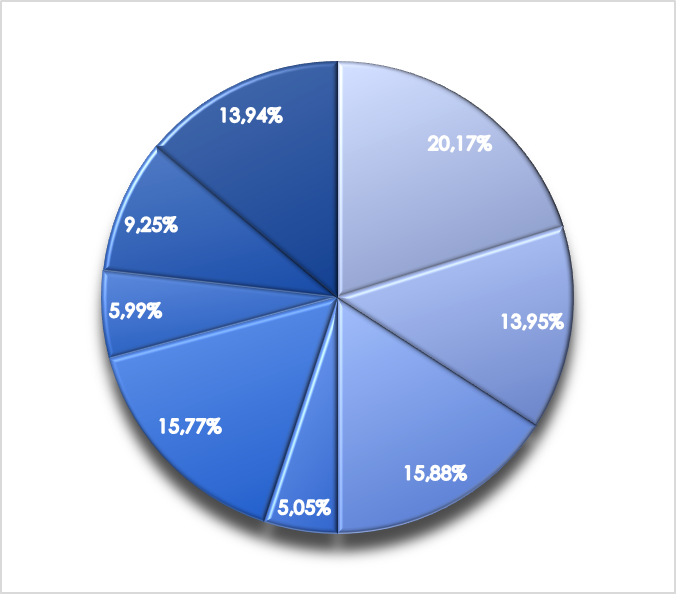
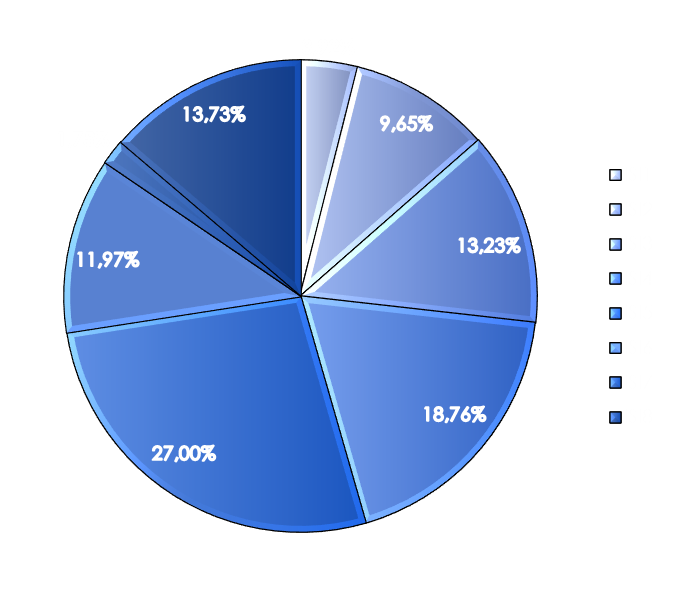
Réparition des étudiants - v3
Corrections diverses dont :
- les polices d'écriture
- le design des diagrammes

diff --git a/src/sousFenetres/RepartitionEtudiants.java b/src/sousFenetres/RepartitionEtudiants.java
@@ -1,9 +1,13 @@
 package sousFenetres;
 
+import java.awt.BorderLayout;
 import java.awt.CardLayout;
 import java.awt.Color;
+import java.awt.Cursor;
 import java.awt.EventQueue;
-import java.util.Arrays;
+import java.awt.FlowLayout;
+import java.awt.Font;
+import java.net.URL;
 import java.util.Hashtable;
 
 import javax.swing.ImageIcon;
@@ -13,18 +17,7 @@ import javax.swing.JSlider;
 import javax.swing.SwingConstants;
 import javax.swing.event.ChangeEvent;
 import javax.swing.event.ChangeListener;
-import java.awt.Dimension;
-import java.awt.Cursor;
-import java.awt.BorderLayout;
-import java.awt.Font;
-import javax.swing.BoxLayout;
-import java.awt.GridBagLayout;
-import java.awt.GridBagConstraints;
-import javax.swing.GroupLayout;
-import javax.swing.GroupLayout.Alignment;
-import java.awt.GridLayout;
-import java.awt.FlowLayout;
-import javax.swing.JButton;
+
 import net.miginfocom.swing.MigLayout;
 
 public class RepartitionEtudiants extends JPanel {
@@ -60,12 +53,15 @@ public class RepartitionEtudiants extends JPanel {
 		
 		JPanel panelTop = new JPanel();
 		FlowLayout flowLayout = (FlowLayout) panelTop.getLayout();
-		flowLayout.setHgap(50);
+		flowLayout.setVgap(25);
+		flowLayout.setAlignOnBaseline(true);
+		flowLayout.setHgap(100);
 		flowLayout.setAlignment(FlowLayout.LEFT);
 		panelTop.setBackground(contentPane.getBackground());
 		contentPane.add(panelTop, BorderLayout.NORTH);
 		
 		JPanel panelCenter = new JPanel();
+		FlowLayout flowLayout_1 = (FlowLayout) panelCenter.getLayout();
 		panelCenter.setBackground(contentPane.getBackground());
 		contentPane.add(panelCenter, BorderLayout.CENTER);
 		
@@ -76,12 +72,14 @@ public class RepartitionEtudiants extends JPanel {
 		
 		//TITLE LABEL
 		JLabel lblTitle = new JLabel("Semestre");
-		lblTitle.setFont(new Font("MV Boli", Font.BOLD, 22));
+		lblTitle.setFont(new Font("Raleway Bold", Font.PLAIN, 22));
+		lblTitle.setForeground(Color.WHITE);
 		panelTop.add(lblTitle);
 		
 		///IMAGE 1///
 		JLabel lblImg1 = new JLabel();
-		lblImg1.setIcon(new ImageIcon(RepartitionEtudiants.class.getResource("/img-camembert/blue/cam1.png")));
+		URL urlObj1 = RepartitionEtudiants.class.getResource("/img-camembert/blue/cam1.png");
+		lblImg1.setIcon(new ImageIcon(urlObj1));
 		lblImg1.setForeground(Color.WHITE);
 		lblImg1.setHorizontalAlignment(SwingConstants.CENTER);
 		panelCenter.add(lblImg1);
@@ -95,6 +93,7 @@ public class RepartitionEtudiants extends JPanel {
 		
 		///SLIDER///
 		JSlider slider = new JSlider();
+		slider.setValue(19);
 		slider.setCursor(Cursor.getPredefinedCursor(Cursor.HAND_CURSOR));
 		slider.setBackground(null);
 		slider.setToolTipText("");
@@ -134,11 +133,13 @@ public class RepartitionEtudiants extends JPanel {
 		JLabel lbl;
 		while (annee<22) {
 			lbl = new JLabel("A"+String.valueOf(annee));
+			lbl.setFont(new Font("Raleway Bold", Font.PLAIN, 16));
 			lbl.setForeground(Color.WHITE);
 			labels.put(k, lbl);
 			k++;
 			lbl = new JLabel("P"+String.valueOf(annee));
-			lbl.setForeground(Color.GRAY.brighter());
+			lbl.setFont(new Font("Raleway Medium", Font.PLAIN, 15));
+			lbl.setForeground(Color.GRAY.brighter().brighter().brighter());
 			labels.put(k, lbl);
 			k++;
 			annee++;
@@ -150,9 +151,9 @@ public class RepartitionEtudiants extends JPanel {
 		String arrTitles[] = new String[20];
 		int annee = 12; int k = 0;
 		while (annee<22) {
-			arrTitles[k] = "Automne "+String.valueOf(annee);
+			arrTitles[k] = "Automne 20"+String.valueOf(annee);
 			k++;
-			arrTitles[k] = "Printemps "+String.valueOf(annee);
+			arrTitles[k] = "Printemps 20"+String.valueOf(annee);
 			k++;
 			annee++;
 		}

diff --git a/src/fenetres/NavigationWindow.java b/src/fenetres/NavigationWindow.java
@@ -83,8 +83,8 @@ public class NavigationWindow {
 		JPanel topPanel = new JPanel();
 		topPanel.setBackground(Color.WHITE);
 		frame.getContentPane().add(topPanel, BorderLayout.NORTH);
-		
-		lblTitle.setFont(new Font("Tahoma", Font.PLAIN, 28));
+
+		lblTitle.setFont(new Font("Raleway Medium", Font.PLAIN, 28));
 		
 		JPanel logoPanel = new JPanel();
 		logoPanel.addMouseListener(new MouseAdapter() {
